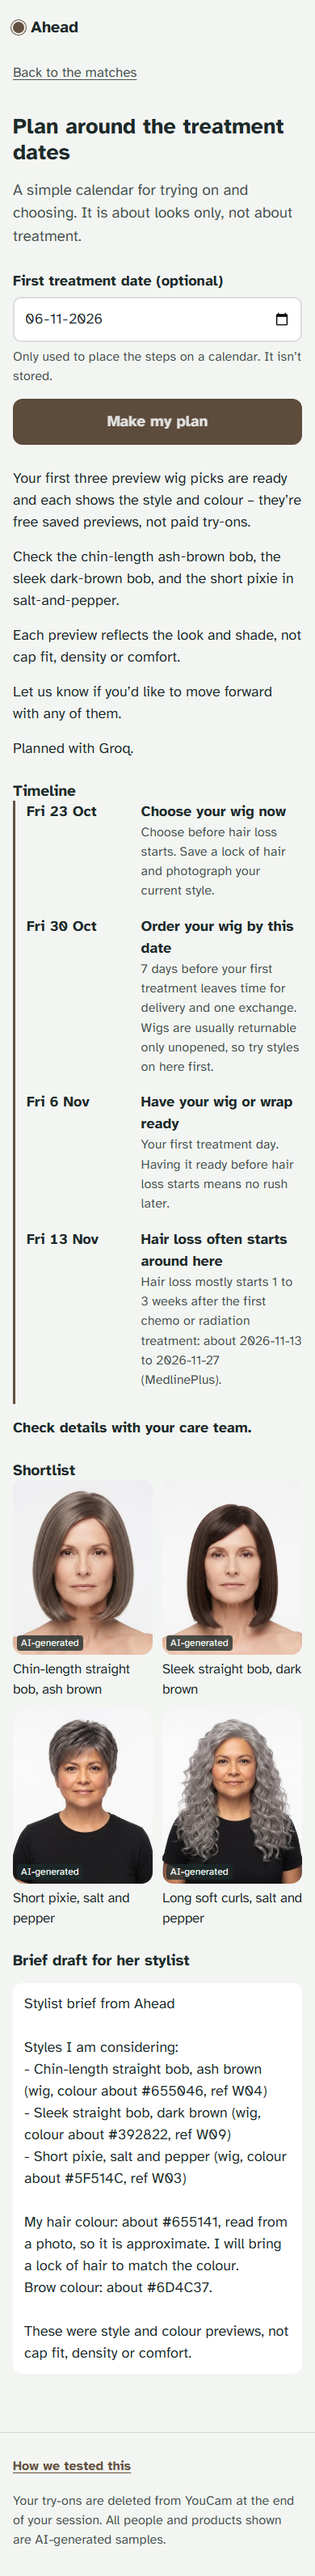
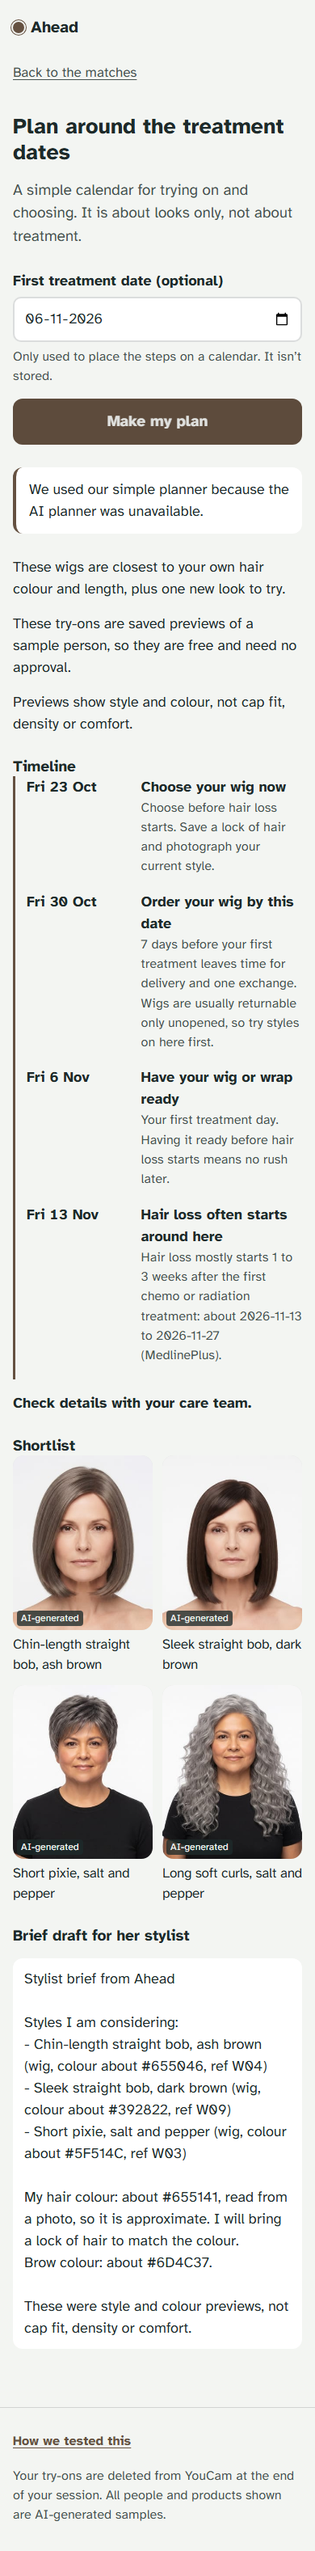
Morning report: final preview URL, Groq rate-limit note

diff --git a/docs/MORNING-REPORT.md b/docs/MORNING-REPORT.md
@@ -22,7 +22,7 @@
   - **Feature freeze** is recorded in PLAN.md.
 
 ## Links
-- **Preview (live, tester code required, log in to Vercel):** https://try-ahead-4dguyetac-aarti-panchals-projects.vercel.app
+- **Preview (live, tester code required, log in to Vercel):** https://try-ahead-g3mmsd6jb-aarti-panchals-projects.vercel.app
 - **Production (still mock):** https://try-ahead.vercel.app
 
 ## Tests
@@ -32,7 +32,7 @@
 I used 2 overnight (the MCP test). The balance is **186**, which is 36 above the 150 reserve.
 
 ## Failed, skipped or worth knowing
-- **Planner bug, found and fixed overnight:** Groq sometimes sent empty values to the shortlist tool and its answer was thrown away; with Gemini overloaded (503), users then got the simple planner. Fixed: empty values are now accepted (3 new tests). Gemini's overload is on Google's side and is logged.
+- **Planner bug, found and fixed overnight:** Groq sometimes sent empty values to the shortlist tool and its answer was thrown away; with Gemini overloaded (503), users then got the simple planner. Fixed: empty values are now accepted (3 new tests). Gemini's overload is on Google's side and is logged. After the fix, Groq answered 1 of 3 later tries; the other 2 hit Groq's free-tier rate limit (my repeated tests used up the token budget) while Gemini was still overloaded. That's a quota limit, not a code bug: consider a paid Groq tier, or space out testing before the video.
 - **"Fail closed" wasn't needed:** TESTER_CODE is set in both Production and Preview, so I didn't build the unset-code fail-closed behaviour.
 - **No screenshot of the tester-code field.** It only appears in live mode with a code set, and I didn't spend units on a selfie try-on.
 - **Screenshots come from the local build.** Preview pages need a Vercel login.
